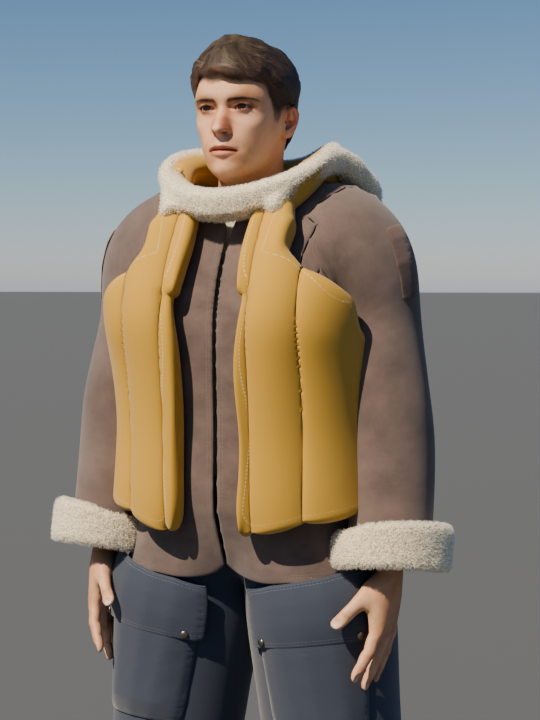
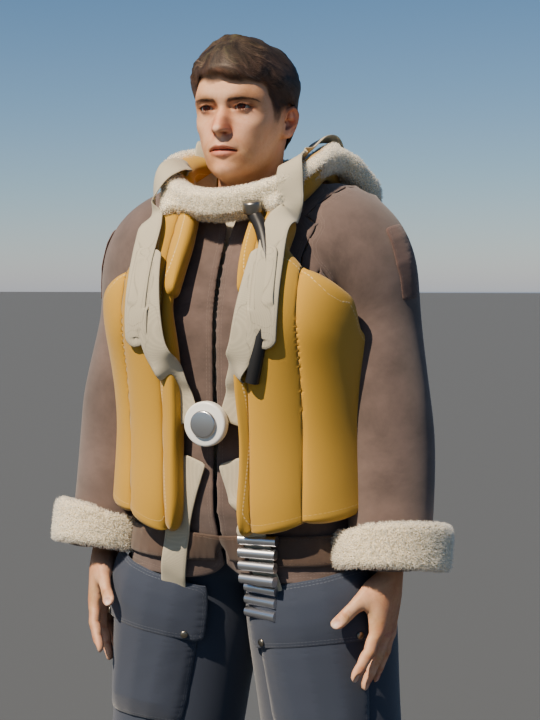
Harness, release box, inflation hose, belt and cartridges; outfit playbook route D (run 009 step 4)
Claude-Session: https://claude.ai/code/session_01CDvtC8YtMDTCkqUDhevinG

Changed region(s): [[0.2074, 0.1833, 0.6519, 0.8556], [0.3556, 0.1833, 0.3852, 0.2139]]

diff --git a/recipes/straps.py b/recipes/straps.py
@@ -1,0 +1,154 @@
+"""Straps, hoses and hardware laid over a dressed character.
+
+A strap's path is given as waypoints: each is a ray (start point, direction) aimed at the
+character. The ray is cast against the outermost clothing (vest, jacket, trousers) and the
+hit point, pushed out along the surface normal, becomes the strap's centre line. A flat
+ribbon of the given width is built along that line, facing the surface. So a strap drapes
+over whatever is underneath, and changing the vest changes where the strap lies.
+
+Limitation: straps are placed on the outfit as it is when they are built, and parented to
+the character as a whole; they do not bend with the skeleton afterwards.
+"""
+import bmesh
+import bpy
+import numpy as np
+from mathutils import Vector
+from mathutils.bvhtree import BVHTree
+
+from . import garments
+
+
+def surface(objects):
+    """One ray-casting structure over the evaluated (posed, modified) meshes of objects."""
+    dg = bpy.context.evaluated_depsgraph_get()
+    verts, faces = [], []
+    for obj in objects:
+        ev = obj.evaluated_get(dg)
+        mesh = ev.to_mesh()
+        base = len(verts)
+        verts.extend(ev.matrix_world @ v.co for v in mesh.vertices)
+        faces.extend(tuple(base + i for i in p.vertices) for p in mesh.polygons)
+        ev.to_mesh_clear()
+    return BVHTree.FromPolygons(verts, faces)
+
+
+def _path(bvh, waypoints, step, lift):
+    """Dense centre line and normals from waypoint rays."""
+    origins = np.array([w[0] for w in waypoints], dtype=float)
+    dirs = np.array([w[1] for w in waypoints], dtype=float)
+    seg = np.linalg.norm(np.diff(origins, axis=0), axis=1)
+    total = np.concatenate([[0.0], np.cumsum(seg)])
+    samples = np.linspace(0.0, total[-1], max(3, int(total[-1] / step) + 1))
+    pts, nrm = [], []
+    for t in samples:
+        o = np.array([np.interp(t, total, origins[:, k]) for k in range(3)])
+        d = np.array([np.interp(t, total, dirs[:, k]) for k in range(3)])
+        hit, normal, _, _ = bvh.ray_cast(Vector(o), Vector(d / np.linalg.norm(d)))
+        if hit is None:
+            continue
+        n = np.array(normal)
+        if np.dot(n, d) > 0:            # face the ray's origin
+            n = -n
+        pts.append(np.array(hit) + n * lift)
+        nrm.append(n)
+    pts, nrm = np.array(pts), np.array(nrm)
+    # gentle smoothing so the strap does not follow every small bump
+    for _ in range(3):
+        pts[1:-1] = 0.5 * pts[1:-1] + 0.25 * (pts[:-2] + pts[2:])
+    return pts, nrm
+
+
+def strap(scene, name, bvh, waypoints, width=0.045, thickness=0.003, material=None,
+          lift=0.004, step=0.012, parent=None):
+    """Flat webbing strap along waypoint rays, lying on the surface."""
+    pts, nrm = _path(bvh, waypoints, step, lift + thickness / 2.0)
+    tangent = np.gradient(pts, axis=0)
+    tangent /= np.linalg.norm(tangent, axis=1, keepdims=True)
+    side = np.cross(nrm, tangent)
+    side /= np.linalg.norm(side, axis=1, keepdims=True)
+    across = np.array([-0.5, -0.17, 0.17, 0.5]) * width
+    verts = (pts[:, None, :] + across[None, :, None] * side[:, None, :]).reshape(-1, 3)
+    k = len(across)
+    faces = [(i * k + j, i * k + j + 1, (i + 1) * k + j + 1, (i + 1) * k + j)
+             for i in range(len(pts) - 1) for j in range(k - 1)]
+    mesh = bpy.data.meshes.new(name)
+    mesh.from_pydata(verts.tolist(), [], faces)
+    dist, along = garments.edge_attributes(verts, faces)
+    mesh.attributes.new("edge_dist", "FLOAT", "POINT").data.foreach_set("value", dist.astype(np.float32))
+    mesh.attributes.new("edge_along", "FLOAT", "POINT").data.foreach_set("value", along.astype(np.float32))
+    uv = np.stack([np.tile(across, len(pts)), np.repeat(np.linspace(0, 1, len(pts)), k)], axis=1)
+    mesh.uv_layers.new(name="UVMap").data.foreach_set("uv", np.array([uv[v] for f in faces for v in f]).ravel())
+    mesh.update()
+    mesh.shade_smooth()
+    if material is not None:
+        mesh.materials.append(material)
+    obj = bpy.data.objects.new(name, mesh)
+    scene.collection.objects.link(obj)
+    solid = obj.modifiers.new("Thickness", "SOLIDIFY")
+    solid.thickness, solid.offset = thickness, 0.0
+    smooth = obj.modifiers.new("Subdivision", "SUBSURF")
+    smooth.levels = smooth.render_levels = 1
+    if parent is not None:
+        obj.parent = parent
+        obj.matrix_parent_inverse = parent.matrix_world.inverted()
+    return obj, pts
+
+
+def tube(scene, name, points, radius, material=None, parent=None, ends_round=True):
+    """A hose or cable through given points (a smooth curve with a round section)."""
+    curve = bpy.data.curves.new(name, "CURVE")
+    curve.dimensions = "3D"
+    curve.bevel_depth = radius
+    curve.bevel_resolution = 4
+    curve.use_fill_caps = True
+    spline = curve.splines.new("NURBS")
+    spline.points.add(len(points) - 1)
+    for p, q in zip(spline.points, points):
+        p.co = (*q, 1.0)
+    spline.use_endpoint_u = True
+    spline.order_u = 4
+    curve.resolution_u = 8
+    if material is not None:
+        curve.materials.append(material)
+    obj = bpy.data.objects.new(name, curve)
+    scene.collection.objects.link(obj)
+    if parent is not None:
+        obj.parent = parent
+        obj.matrix_parent_inverse = parent.matrix_world.inverted()
+    return obj
+
+
+def disc(scene, name, centre, normal, radius, thickness, material=None, bevel=0.004, parent=None):
+    """A round fitting (release box, buckle face, button) facing along `normal`."""
+    bm = bmesh.new()
+    bmesh.ops.create_cone(bm, cap_ends=True, cap_tris=False, segments=40,
+                          radius1=radius, radius2=radius, depth=thickness)
+    mesh = bpy.data.meshes.new(name)
+    bm.to_mesh(mesh)
+    bm.free()
+    mesh.shade_smooth()
+    if material is not None:
+        mesh.materials.append(material)
+    obj = bpy.data.objects.new(name, mesh)
+    scene.collection.objects.link(obj)
+    edge = obj.modifiers.new("Rounded edge", "BEVEL")
+    edge.width, edge.segments = bevel, 4
+    up = Vector((0.0, 0.0, 1.0))
+    obj.rotation_mode = "QUATERNION"
+    obj.rotation_quaternion = up.rotation_difference(Vector(normal))
+    obj.location = Vector(centre) + Vector(normal) * (thickness / 2.0)
+    if parent is not None:
+        obj.parent = parent
+        obj.matrix_parent_inverse = parent.matrix_world.inverted()
+    return obj
+
+
+def hit(bvh, origin, direction, lift=0.0):
+    """Surface point and outward normal where a ray meets the outfit."""
+    p, n, _, _ = bvh.ray_cast(Vector(origin), Vector(direction).normalized())
+    if p is None:
+        return None, None
+    n = np.array(n)
+    if np.dot(n, direction) > 0:
+        n = -n
+    return np.array(p) + n * lift, n

diff --git a/runs/009-outfit-detail/upper.py b/runs/009-outfit-detail/upper.py
@@ -8,10 +8,11 @@ import os
 import sys
 
 import bpy
+import numpy as np
 
 HERE = os.path.dirname(os.path.abspath(__file__))
 sys.path.insert(0, os.path.dirname(os.path.dirname(HERE)))
-from recipes import camera, color, garments, hair, human, materials, render, stage, world  # noqa: E402
+from recipes import camera, color, garments, hair, human, materials, render, stage, straps, world  # noqa: E402
 from tools.image_stats import stats  # noqa: E402
 
 W, H, SAMPLES = (int(a) for a in sys.argv[1:4]) if len(sys.argv) > 3 else (540, 720, 48)
@@ -77,6 +78,73 @@ for part_name, count in (("_collar", 120000), ("_cuffs", 50000)):
     roots, normals = hair.sample_surface(v, f, count, seed=len(part_name))
     hair.grow(scene, "Fur" + part_name, roots, normals, length=0.007, radius=0.00045, material=wool,
               comb=(0.0, 0.0, -0.05), curl=0.45, steps=4, seed=2, length_jitter=0.25)
+
+# --- step 4: harness, release box, inflation hose, belt with cartridges ----------------
+STEP4 = "--no-harness" not in sys.argv
+if STEP4:
+    outer = [o for o in pilot.children if o.name.split("_", 1)[-1] in ("vest", "jacket", "trousers", "collar")]
+    bvh = straps.surface(outer)
+    webbing = stitched(materials.fabric((0.50, 0.46, 0.36), name="Webbing", thread=0.0016, on="object", sheen=0.2),
+                       inset=0.003, stitch=0.003, gap=0.0018, color=(0.36, 0.33, 0.26), depth=0.4)
+    box_z, front = 1.10, (0.0, 1.0, 0.0)
+    strap_ends = []
+    for sx in (1.0, -1.0):
+        # shoulder strap: over the shoulder from the back, down the vest front to the box
+        _, line = straps.strap(scene, f"Harness shoulder {sx:+.0f}", bvh, [
+            ((sx * 0.105, 0.6, 1.38), (0.0, -1.0, 0.0)),
+            ((sx * 0.11, 0.06, 1.75), (0.0, 0.0, -1.0)),
+            ((sx * 0.11, -0.06, 1.75), (0.0, 0.0, -1.0)),
+            ((sx * 0.10, -1.0, 1.40), front),
+            ((sx * 0.075, -1.0, 1.25), front),
+            ((sx * 0.035, -1.0, box_z + 0.03), front)], material=webbing, lift=0.018, parent=pilot)
+        # (lift 1.8 cm: the vest's padded channels are added at render time and are not in
+        # the surface the straps are laid on; at 3 mm the straps vanished under them)
+        strap_ends.append(line[-1])
+        # leg strap: from the box down the front of the thigh
+        straps.strap(scene, f"Harness leg {sx:+.0f}", bvh, [
+            ((sx * 0.03, -1.0, box_z - 0.03), front),
+            ((sx * 0.07, -1.0, 0.95), front),
+            ((sx * 0.10, -1.0, 0.80), front),
+            ((sx * 0.13, -1.0, 0.68), front)], material=webbing, lift=0.008, parent=pilot)
+    # The box sits where the shoulder straps meet. (Cast straight at the centre, it landed
+    # in the gap between the vest fronts and was hidden.)
+    normal = np.array([0.0, -1.0, 0.0])
+    centre = np.mean(strap_ends, axis=0) + normal * 0.004
+    straps.disc(scene, "Release box", centre, normal, radius=0.036, thickness=0.018,
+                material=materials.plain("Release box", (0.78, 0.78, 0.76), 0.35), parent=pilot)
+    straps.disc(scene, "Release dial", centre + normal * 0.018, normal, radius=0.022, thickness=0.006,
+                material=materials.metal("Dial", (0.55, 0.55, 0.56), 0.3), parent=pilot)
+    # inflation hose on the left chest: from the vest up toward the collar, valve at the top
+    hose_pts = []
+    for z, x in ((1.20, 0.085), (1.28, 0.105), (1.36, 0.11), (1.43, 0.09), (1.47, 0.06)):
+        p, n = straps.hit(bvh, (x, -1.0, z), (0.0, 1.0, 0.0), lift=0.016)
+        if p is not None:
+            hose_pts.append(p)
+    rubber = materials.plain("Rubber", (0.025, 0.025, 0.027), 0.45)
+    straps.tube(scene, "Inflation hose", hose_pts, radius=0.011, material=rubber, parent=pilot)
+    straps.disc(scene, "Hose valve", hose_pts[-1], (0.0, -0.3, 1.0), radius=0.015, thickness=0.02,
+                material=materials.metal("Valve", (0.35, 0.33, 0.30), 0.35), parent=pilot)
+    # belt round the waist over the jacket, below the vest, with flare cartridges on the front
+    BELT_Z = 0.925
+    belt_pts = []
+    for ang in np.radians(np.arange(-180, 181, 6)):
+        d = np.array([np.sin(ang), -np.cos(ang), 0.0])
+        p, n = straps.hit(bvh, -d * 1.0 + np.array([0.0, 0.0, BELT_Z]), d)
+        if p is not None:
+            belt_pts.append((p - d * 0.0, d))
+    belt_leather = stitched(materials.matte_leather("Belt", (0.09, 0.055, 0.04), mottle=0.25, roughness=0.55),
+                            inset=0.004, color=(0.2, 0.14, 0.1), depth=0.4)
+    straps.strap(scene, "Belt", bvh, [(p - d * 0.5, d) for p, d in belt_pts], width=0.05, thickness=0.005,
+                 material=belt_leather, lift=0.004, parent=pilot)
+    casing = materials.metal("Cartridge", (0.62, 0.62, 0.64), 0.3)
+    # stacked one above the other in a column, as in the reference
+    for k, z in enumerate(BELT_Z + 0.02 - 0.021 * np.arange(7)):
+        p, n = straps.hit(bvh, (0.075, -1.0, z), (0.0, 1.0, 0.0), lift=0.017)
+        if p is None:
+            continue
+        side = np.cross(n, (0.0, 0.0, 1.0)); side /= np.linalg.norm(side)
+        straps.tube(scene, f"Cartridge {k}", [p - side * 0.032, p, p + side * 0.032], radius=0.0088,
+                    material=casing, parent=pilot)
 
 world.sky_world(scene, sun_elevation_deg=48.0, sun_rotation_deg=200.0, strength=0.035)
 bpy.ops.mesh.primitive_plane_add(size=400)

diff --git a/playbooks/outfit.md b/playbooks/outfit.md
@@ -64,6 +64,30 @@ thickness 6 mm. Result: folds, visible seams, under 0.1% of points inside the sk
 Status: body, collar and lapels sit correctly; sleeves reach the arms but bunch above the
 elbows; one seam stays open. Do not use for a deliverable until that is fixed.
 
+## Route D. Detail pieces (seconds; pockets, flaps, shoulder straps, cuffs, vests, harness)
+
+Worked example: `runs/009-outfit-detail/trousers.py` and `upper.py`.
+
+- **One shared base surface.** Give every loose piece the same `smooth_shell` (30 worked)
+  and, for loose trousers, the same `cut` (straight-leg radii). Pieces then lie exactly on
+  each other. Ease is per piece: trousers 1 to 1.4 cm, pocket +0.4 cm, flap +1.65 cm,
+  jacket 3 cm, strap +0.5 cm, cuffs +1.6 cm, vest +1.6 cm.
+- **Loose trousers:** `garments.trousers(cut={"thigh": 0.118, "knee": 0.098, "ankle":
+  0.088, "folds": 0.007}, smooth_shell=30)`. Inflating the tights only makes fatter leggings.
+- **Pockets, flaps, straps on limbs:** `garments.leg_patch(limb="leg"|"arm", s=(from, to),
+  theta=(from, to), puff=..., snaps=[(s, theta)])`. Exact rounded rectangles wrapped onto
+  the limb: straight edges, clean corners. theta 0 is the front, 90 the outside (top of the
+  arm). Front thigh pocket: s 0.20 to 0.86, theta -38 to 48. Flap: s 0.16 to 0.44.
+- **Cuffs and boot tops:** `garments.band(limb, start, end)`.
+- **Vest:** `garments.vest(low, high, opening)`; padded channels with
+  `materials.add_channels(mat, width=0.075, depth=0.012)` and render subdivision 3.
+- **Stitching:** `materials.add_stitches(mat, rows=2, inset=0.004, row_spacing=0.005)`.
+  Works on any piece built by `garments.build` or `straps.strap`: the mesh carries the
+  distance to its edges and seams. Panel seams (`spec["panels"]`) get stitched too.
+- **Straps, hoses, hardware over the outfit:** `straps.surface(outer objects)`, then
+  `straps.strap(waypoint rays)`, `straps.tube(points)`, `straps.disc(centre, normal)`.
+  Build them last, after everything they lie on.
+
 ## Step 2. Trim and accessories (seconds to a minute)
 
 - Fur and hair: `hair.sample_surface` on the evaluated trim mesh, then `hair.grow`.
@@ -94,6 +118,17 @@ elbows; one seam stays open. Do not use for a deliverable until that is fixed.
 | Goggle strap floats off the head | Sized to the ears | Size to the temples (half-width minus 6 mm) |
 | Fabric pattern in huge stripes | Garment UVs are tiny (21 m per unit) | Use `on="garment"` materials |
 | `import bmesh` fails | Imported before `bpy` | Import `bpy` first |
+| "Material has been removed" | Materials made before `stage.new_scene()`, which resets the file | Create the scene first, then materials |
+| Pocket edges wavy, corners notched | Cut from the 2.7 cm body mesh | Use `leg_patch` (exact, finely meshed) |
+| Patch appears nowhere (NaN positions) | Flat chart has zero-area triangles | Filtered in `_wrap`; check s/theta ranges of the patch |
+| Loose trousers look like leggings | Ease alone keeps the body's shape | Use a `cut` (straight-leg radii) |
+| Crotch or buttocks show through | Creases larger than the smoothing reach | Built in: `smooth_shell` adds crotch bridging |
+| Undershirt pokes through the waistband | Different base surfaces | Same `smooth_shell`, smaller ease, hem above the waistband |
+| Trouser hems balloon at the ankle | Straight-leg radius around a thin ankle | Boots over them on the same `cut`, or a smaller ankle radius |
+| Vest shrinks to two tabs at the collar | Armholes cut by arm coordinate; with arms down most of the chest counts as arm | `vest()` cuts an oval round each shoulder joint |
+| Straps or box vanish into the vest | Padded channels are added at render time, not in the surface straps are laid on | Lift straps by channel depth plus a margin (1.8 cm) |
+| Release box hidden | Ray at the centre hits inside the vest opening | Anchor it where the shoulder straps end |
+| Cartridges merge into one bar | Spaced sideways | Stack them vertically |
 
 ## Time per step on this machine (4 CPU cores, no graphics card)
 
@@ -105,6 +140,8 @@ elbows; one seam stays open. Do not use for a deliverable until that is fixed.
 | 70,000 fur strands | about 2 s to build |
 | Test render 432x540, 48 samples | 20 s |
 | Full render 864x1080, 160 samples with fur | 7 min |
+| Full outfit of route A and D pieces, no cloth simulation | about 2 s to build |
+| Outfit test render 540x720, 48 samples, with 170,000 fur strands | 25 s |
 
 ## Rules for keeping this useful
 

diff --git a/playbooks/outfit-log.md b/playbooks/outfit-log.md
@@ -11,10 +11,13 @@ One row per outfit attempt, newest last. "Tries" counts simulate-and-look cycles
 | 13 Nov 2026 | Shirt from GarmentCode pattern (run 007) | C: sewn pattern | 3 | Sewing too violent; shoulder seam below the shoulders | Works as a short-sleeved shirt |
 | 13 Nov 2026 | Jacket from drafted pattern (run 007) | C: sewn pattern | 4 | Sleeves missed arms (other body's measurements); wrong head measurement; body slid to waist | Not usable yet: sleeves bunch, one seam open |
 | 13 Nov 2026 | Pilot likeness (run 008) | B: draped shell jacket; A: shirt, trousers, helmet with cheek flaps, collar; strand shearling and moustache; goggles | 1 | Nothing failed; first use of the playbook | Recognisable palette and layers under daylight. Missing: vest, harness, clouds, closer camera |
+| 13 Nov 2026 | Pilot outfit detail: flight trousers with cargo pockets, boots, jacket seams and straps, shearling cuffs, life vest, harness, release box, hose, belt, cartridges (run 009) | A and D, no cloth simulation | 10 | Wavy pockets; NaN pocket positions; crotch showing; leggings shape; shirt through waistband; vest cut to tabs; vest too short; straps and box hidden under channels; box in vest gap; cartridges merged | Every major piece of the reference outfit present and recognisable |
 
 ## What the log says so far
 
 - Route B took 4 tries the first time and 1 try the second time (run 008), following the playbook.
+- Route D (detail pieces) took 10 tries the first time, but each try is about 25 s, so the
+  whole outfit took under 10 minutes of rendering. Every failure is now in the table.
 - Route C has cost 7 tries and is not reliable. Each try is about 2.5 minutes of
   simulation plus a render.
 - The same mistake happened twice (measuring against the holed body). It is now in the
